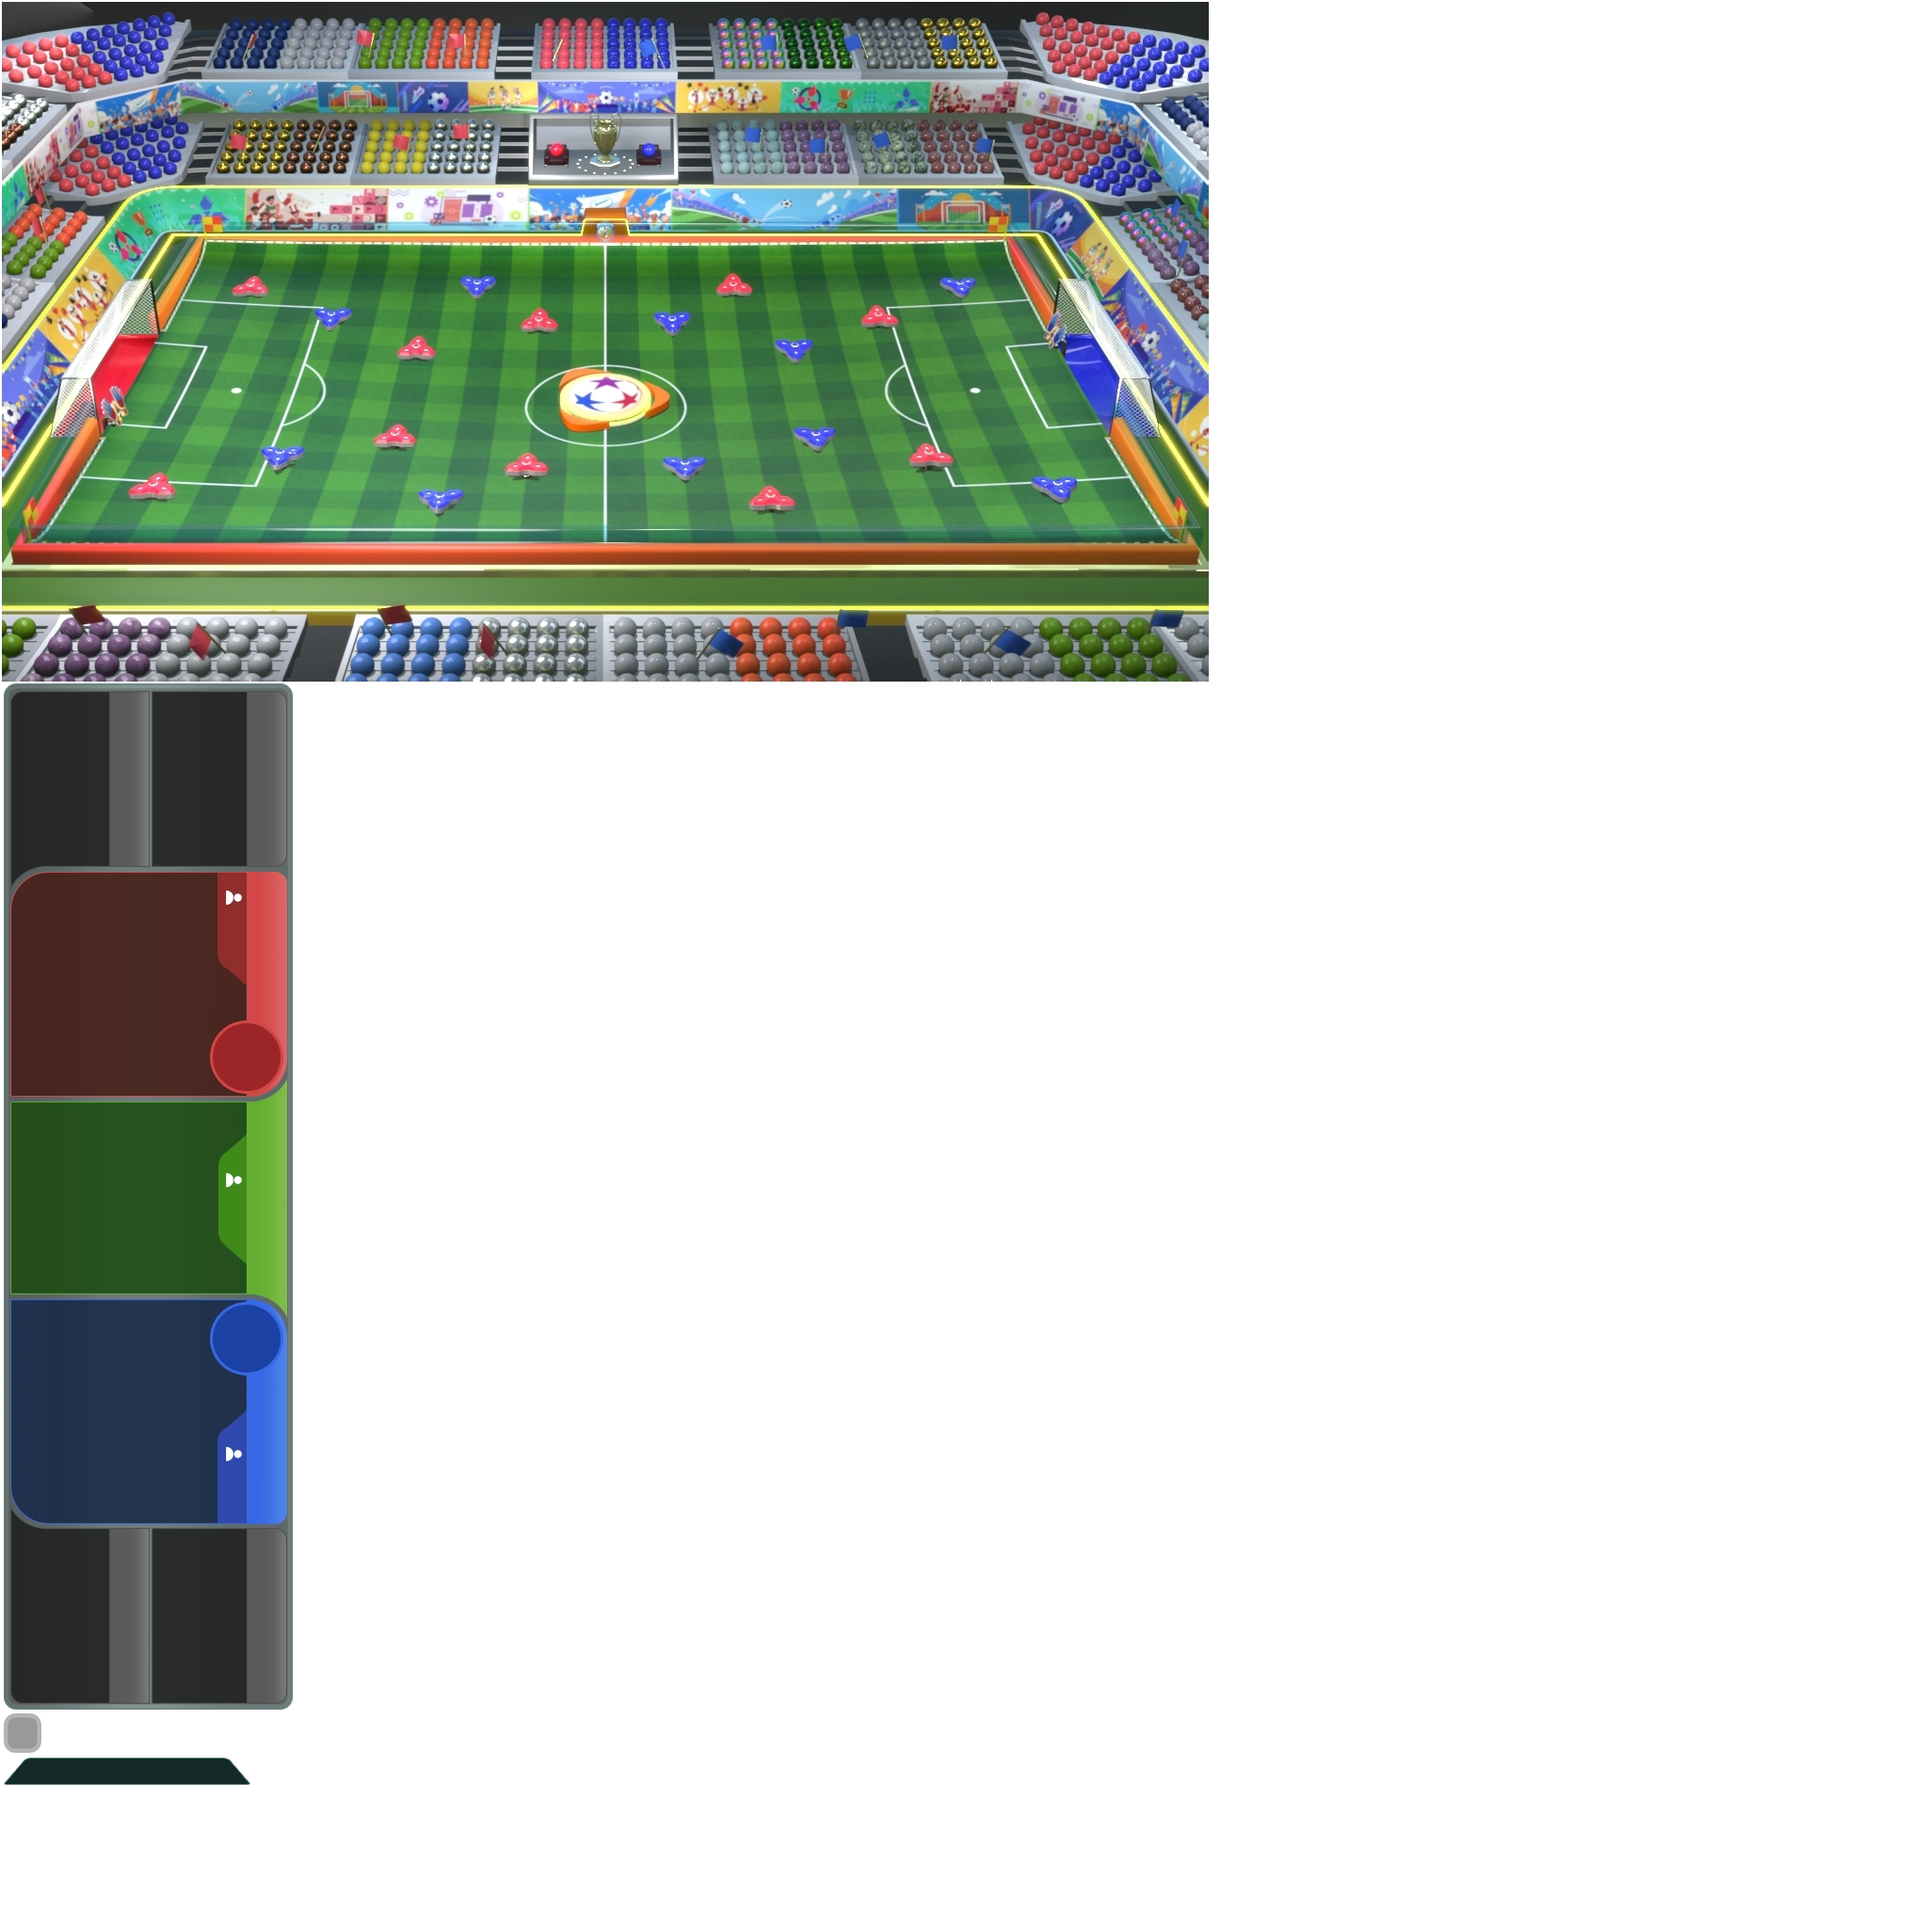
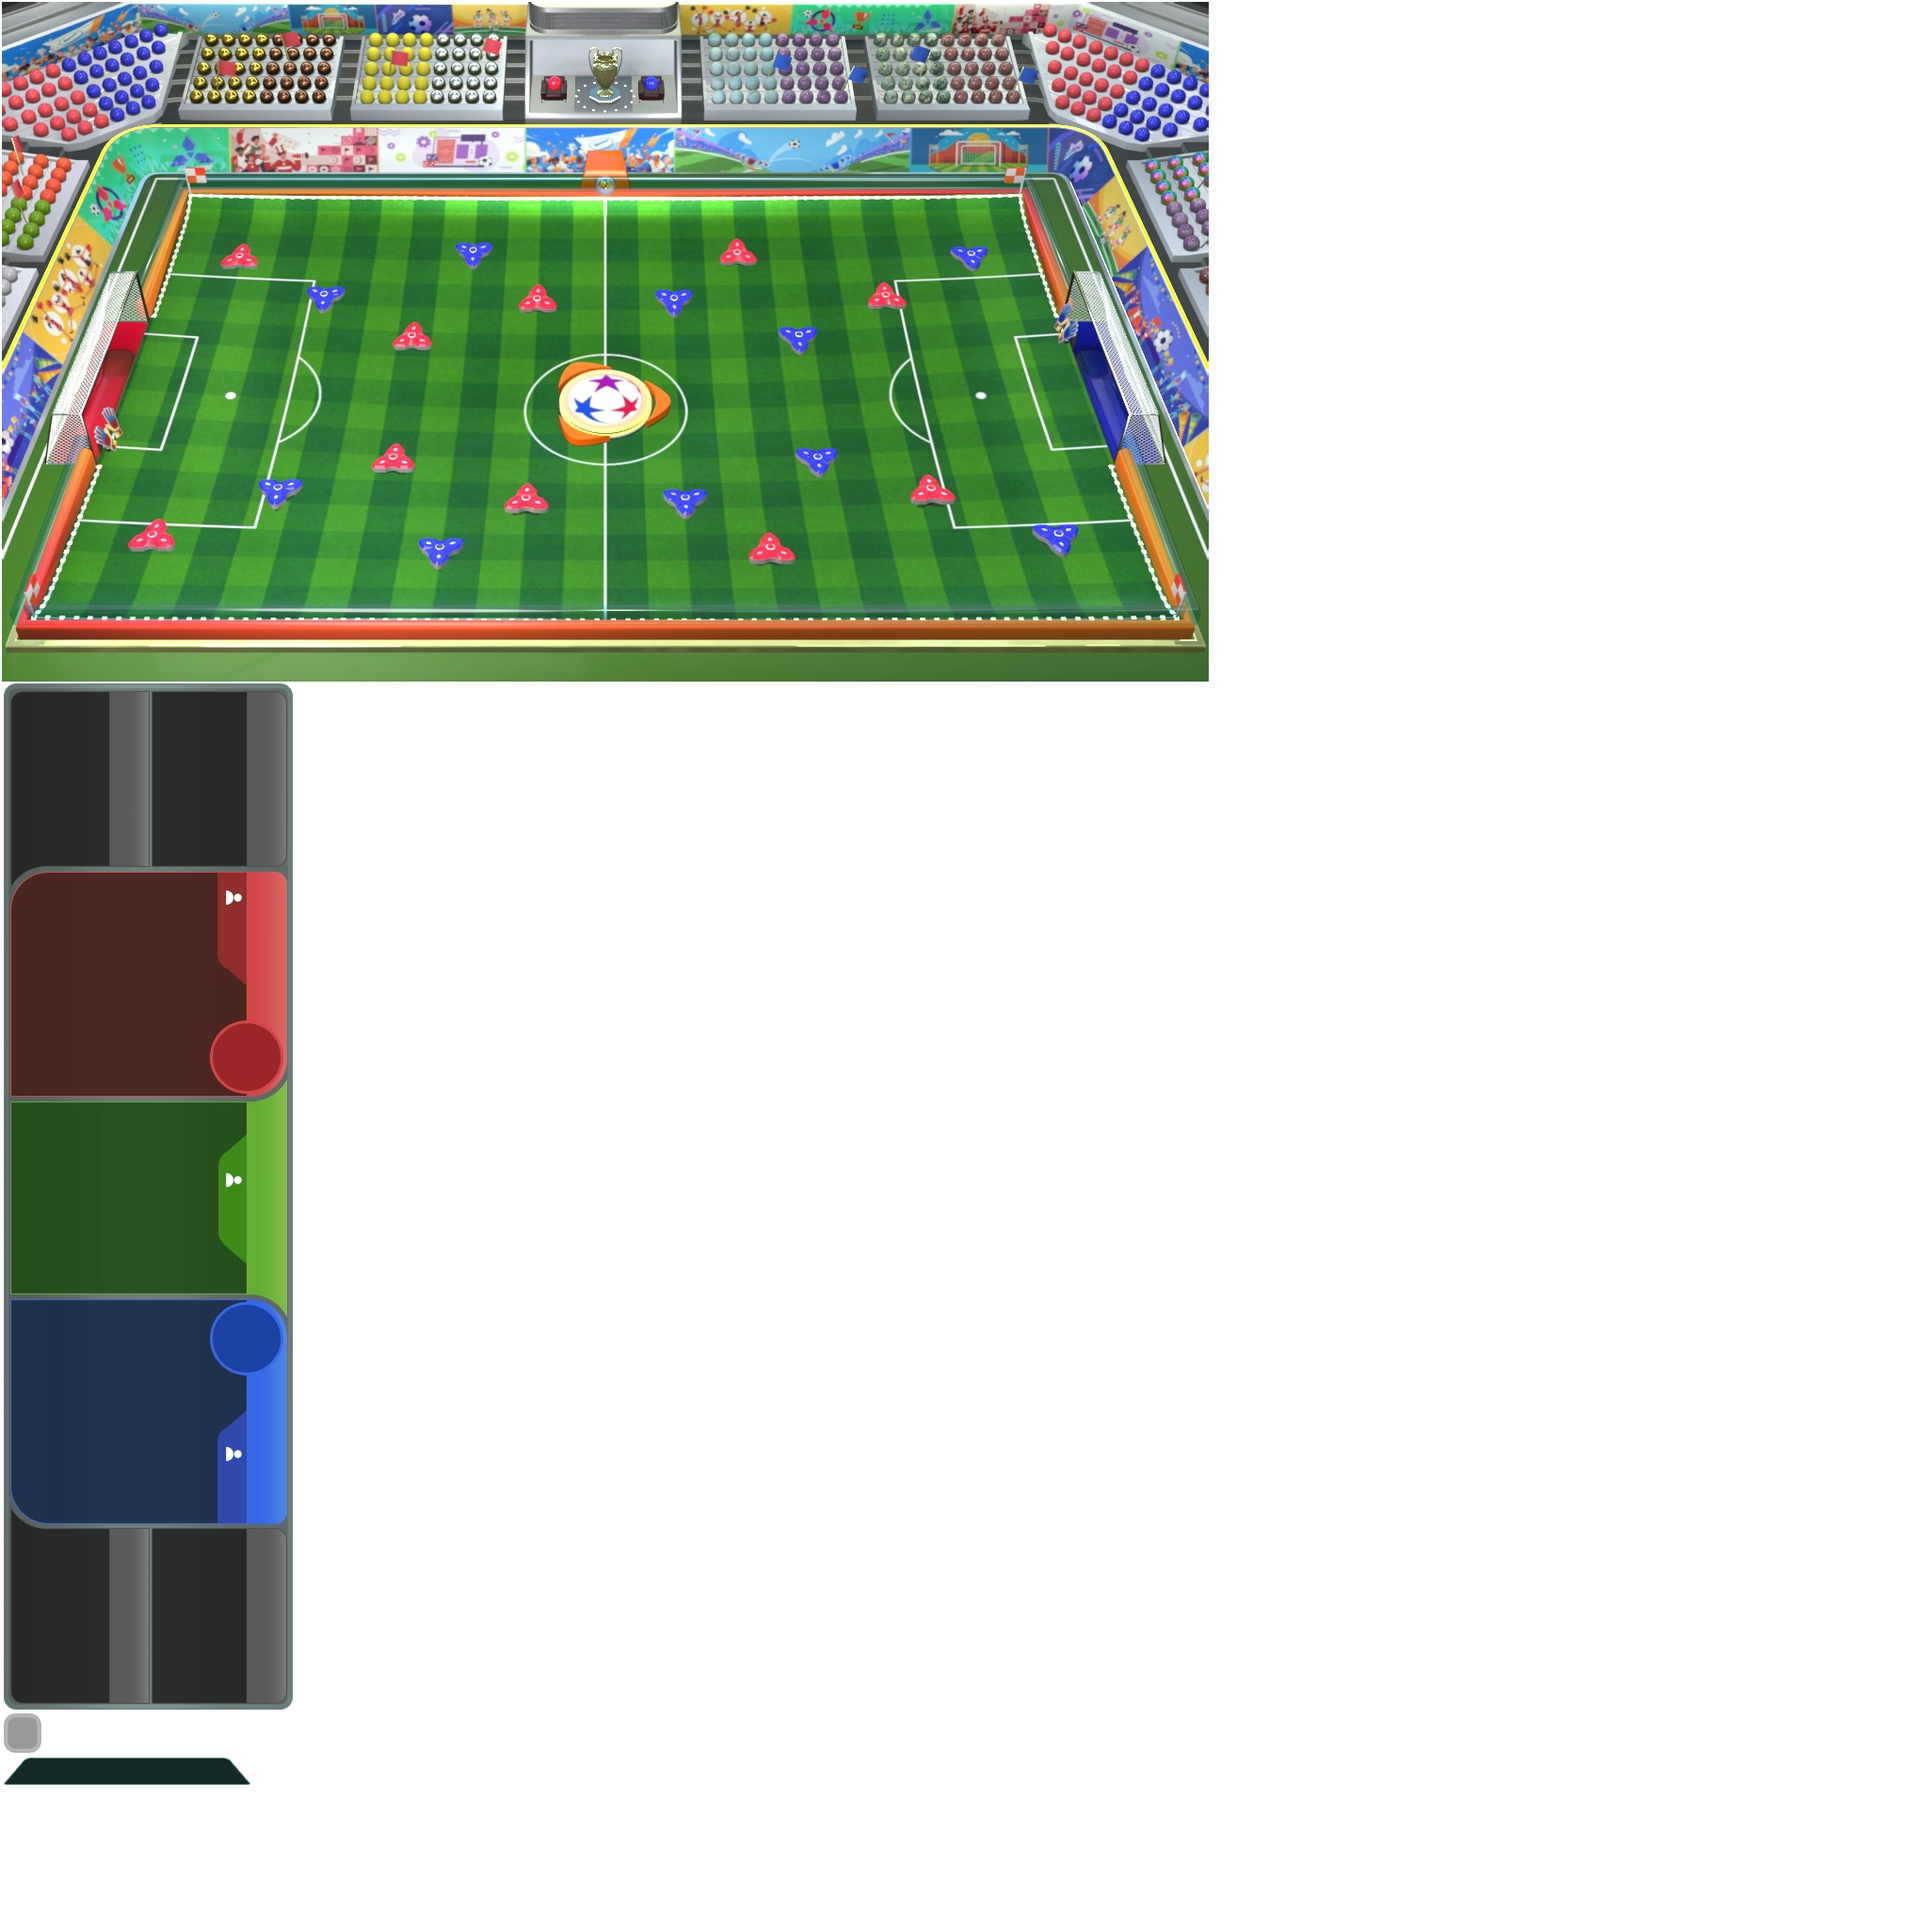
feat: change bg and turn off live score when need

Changed region(s): [[0.0, 0.0, 0.625, 0.375]]

diff --git a/src/assets/game/scripts/components/play-area.ts b/src/assets/game/scripts/components/play-area.ts
@@ -164,6 +164,7 @@ export class PlayArea extends ObserverComponent {
         return config;
     }
 
+    ///TODO: Remove this phase if we don't need it
     @handle(GamePhaseHandler, (handler, config: GamePhaseConfig) => handler.registerPhase(config))
     registerPhaseShowLiveScore() {
         const config: GamePhaseConfig = {
@@ -299,10 +300,15 @@ export class PlayArea extends ObserverComponent {
                 this.zoomPlayArea("in", phase.id === PhaseId.ShowBetChoicesPrev ? "prev" : "live");
             }
 
+            if (phase.id === PhaseId.ShowBetChoicesLive) {
+                this.teamScoreFlyOut(phase.progress);
+            }
+
             return;
         }
 
         if (phase.id === PhaseId.ShowIntroVideo || phase.id === PhaseId.ShowLiveVideo) {
+            this.teamScoreFlyIn(phase.progress);
             if (phase.progress === 0) {
                 this.playAnimForTarget(this.scoreBoard, this.tweenConfigs.fadeInOut.out);
             } else {
@@ -327,15 +333,21 @@ export class PlayArea extends ObserverComponent {
             this.fadeOutBetChoiceNode(this.containerBets, true, this.durationShowBetChoices);
             return;
         }
+    }
 
-        if (phase.id === this.ShowLiveScore) {
-            if (phase.progress === 0) {
-                this.playAnimForTarget(this.teamScore, this.tweenConfigs.teamScoreFlyUp.in);
-            } else {
-                this.setStaticTarget(this.teamScore, this.tweenConfigs.teamScoreFlyUp.in);
-            }
+    private teamScoreFlyIn(phaseProgress: number) {
+        if (phaseProgress === 0) {
+            this.playAnimForTarget(this.teamScore, this.tweenConfigs.teamScoreFlyUp.in);
+        } else {
+            this.setStaticTarget(this.teamScore, this.tweenConfigs.teamScoreFlyUp.in);
+        }
+    }
 
-            return;
+    private teamScoreFlyOut(phaseProgress: number) {
+        if (phaseProgress === 0) {
+            this.playAnimForTarget(this.teamScore, this.tweenConfigs.teamScoreFlyUp.out);
+        } else {
+            this.setStaticTarget(this.teamScore, this.tweenConfigs.teamScoreFlyUp.out);
         }
     }
 

diff --git a/src/assets/game/scripts/features/video-stream/video-stream-store.ts b/src/assets/game/scripts/features/video-stream/video-stream-store.ts
@@ -30,6 +30,7 @@ export class VideoStreamStore {
     private _isBreakTime = false;
     private _currentMatchTime = 0;
     private _isLiveVideo = false;
+    private _isSecondHalf = false;
 
     liveStreamServer = "";
 
@@ -53,6 +54,8 @@ export class VideoStreamStore {
         this._isBreakTime = roundTime <= firstHalfVideoDuration && roundTime > firstHalfVideoDuration - settings.durations.breakTime;
 
         this._isLiveVideo = !this._isBreakTime && roundTime >= 0 && roundTime <= settings.points.streamingFirstHalfVideo;
+
+        this._isSecondHalf = roundTime >= 0 && roundTime <= settings.points.streamingSecondHalfVideo;
 
         this.updateCurrentVideoAndScores();
     }
@@ -200,7 +203,6 @@ export class VideoStreamStore {
 
     set videoResult(source: MarbleFootballServiceMessages.VideoStream) {
         this._videoResult = source;
-        this.resetScores();
     }
 
     get videoResult(): MarbleFootballServiceMessages.VideoStream {
@@ -237,6 +239,10 @@ export class VideoStreamStore {
 
     get isLiveVideo(): boolean {
         return this._isLiveVideo;
+    }
+
+    get isSecondHalf(): boolean {
+        return this._isSecondHalf;
     }
 
     resetForNewRound() {

diff --git a/src/assets/game/scripts/components/live-score.ts b/src/assets/game/scripts/components/live-score.ts
@@ -46,10 +46,10 @@ export class LiveScore extends ObserverComponent {
         this.away.setIcon(away);
     }
 
-    @render(VideoStreamStore, (store) => store.isFirstHalf)
-    setMatch(isFirstHalf: boolean) {
+    @render(VideoStreamStore, (store) => store.isSecondHalf)
+    setMatch(isSecondHalf: boolean) {
         const halfLabel = this.half.getComponent(LocalizedLabel);
-        halfLabel.key = isFirstHalf ? "MarbleFootball.first_half" : "MarbleFootball.second_half";
+        halfLabel.key = isSecondHalf ? "MarbleFootball.second_half" : "MarbleFootball.first_half";
         halfLabel.updateLabel();
     }
 
